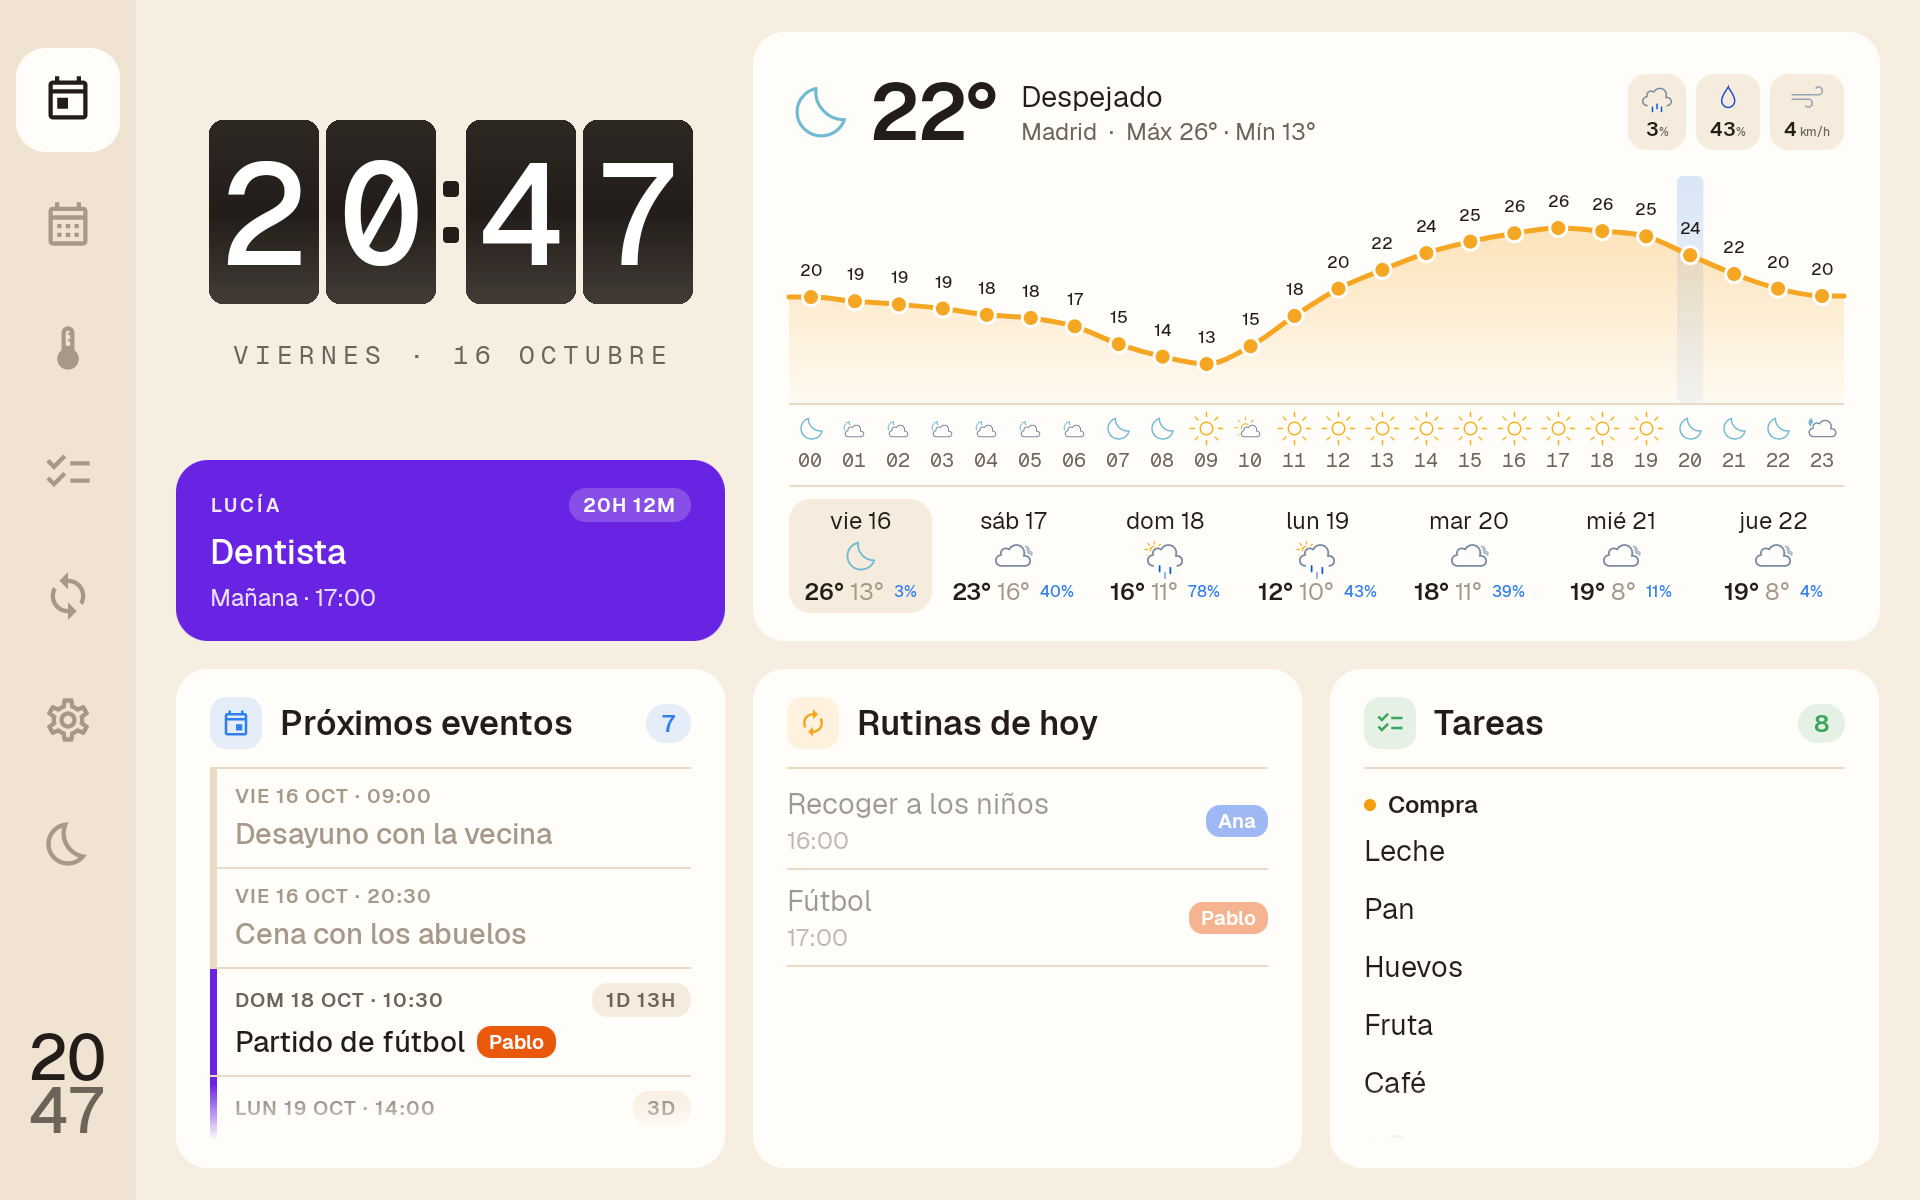
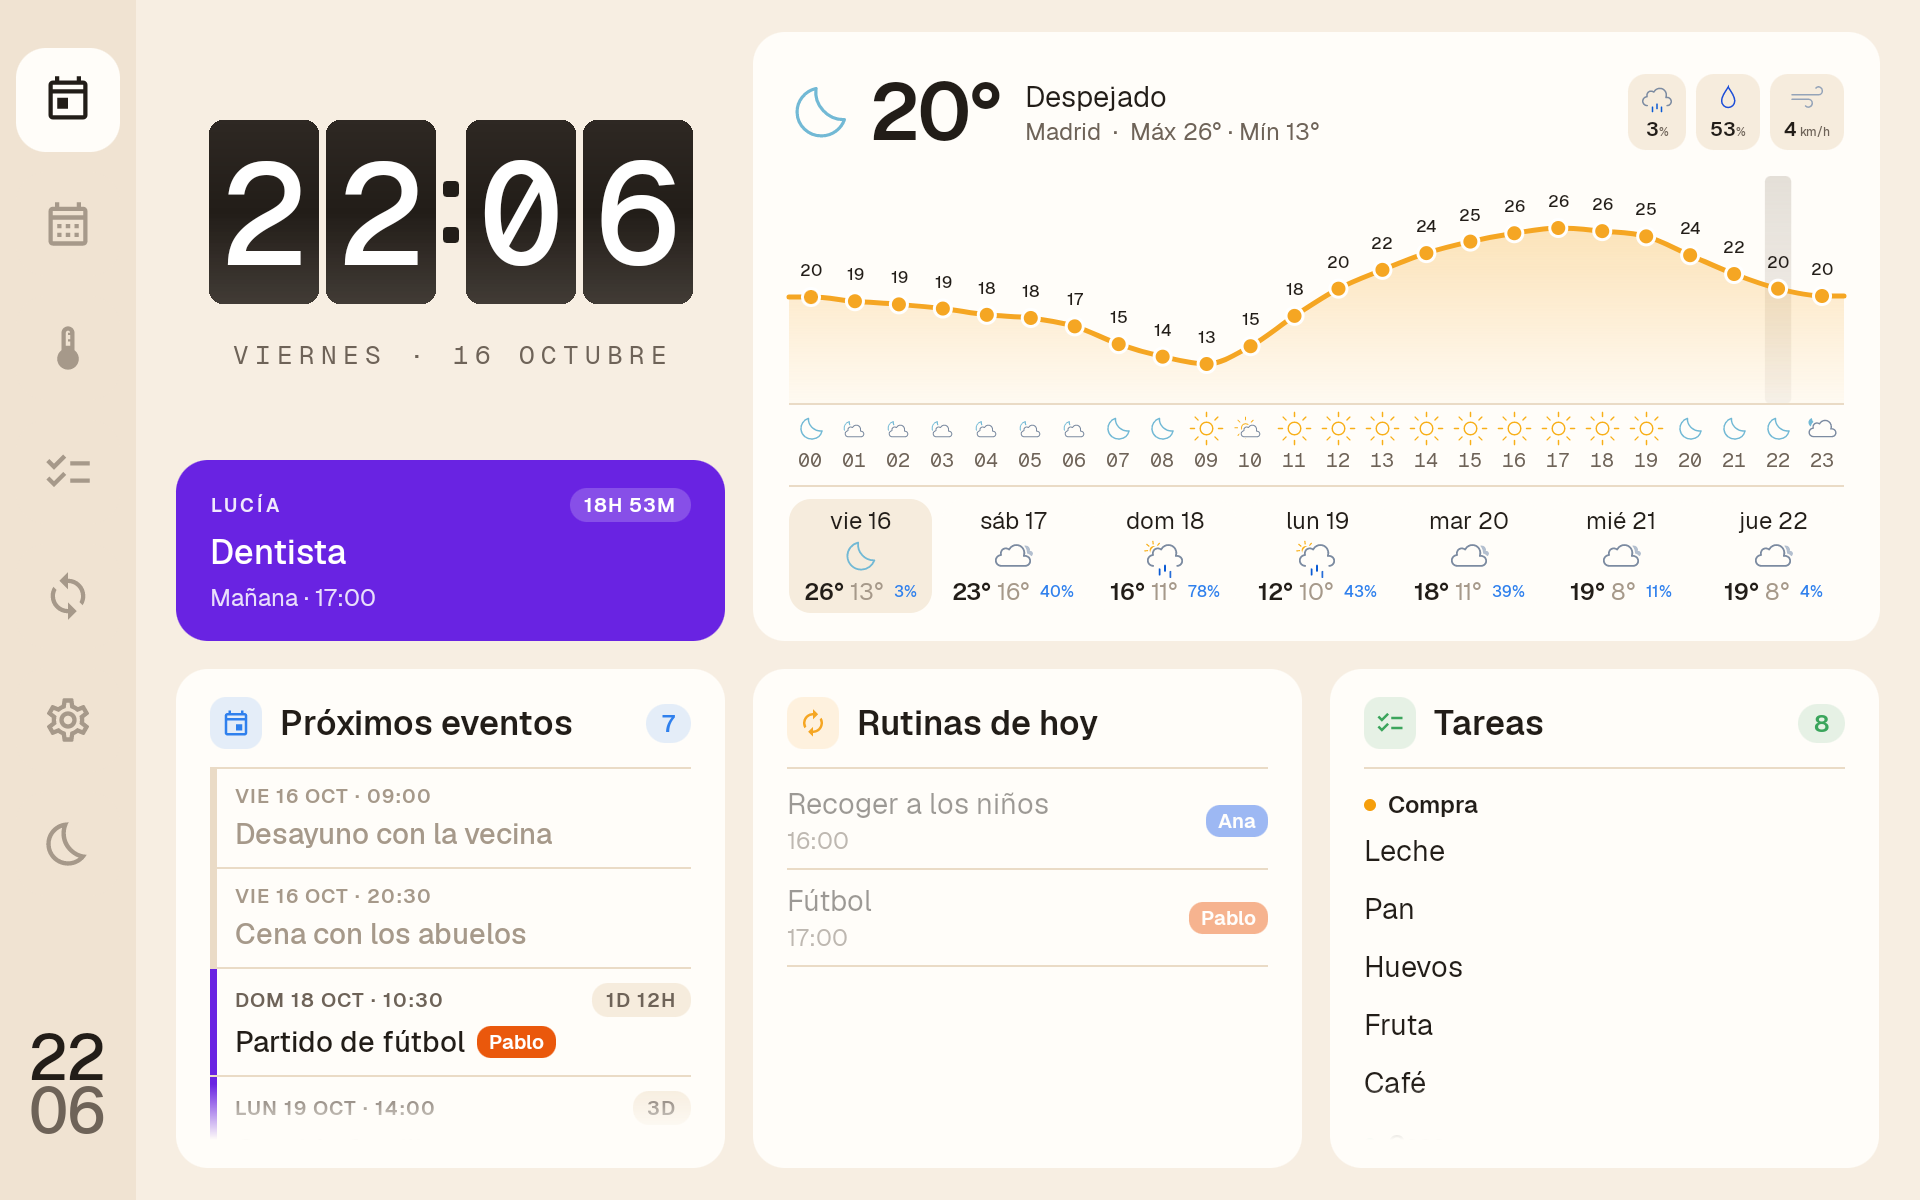
Tiempo: la hora actual se marca en amarillo de día y en gris de noche
La banda de la hora actual en la gráfica deja de ser azul: usa el
amarillo de la curva si esa hora es de día (is_day de Open-Meteo) y
gris si es de noche.

diff --git a/android/app/src/main/java/com/lito/planify/dashboard/ui/WeatherUi.kt b/android/app/src/main/java/com/lito/planify/dashboard/ui/WeatherUi.kt
@@ -251,13 +251,15 @@ fun HourlyForecast(forecast: Forecast, now: LocalDateTime, modifier: Modifier = 
             val maxT = maxOf(temps.max(), minT + 1)
             fun y(t: Double) = curveBottom - (curveBottom - curveTop) * ((t - minT) / (maxT - minT)).toFloat()
 
-            // Hora actual: una banda azul translúcida sobre la columna de la hora en punto (13:40 → las 13), detrás de la curva
+            // Hora actual: una banda translúcida sobre la columna de la hora en punto (13:40 → las 13), detrás de la curva;
+            // amarilla de día y gris de noche (según el is_day de esa hora)
             val current = Math.floorDiv(Duration.between(LocalDateTime.parse(hourly.time[points.first()], IsoMinute), now).toMinutes(), 60L * step).toInt()
             if (current in points.indices) {
                 val nowX = x(current)
                 val band = (column * 0.6f).coerceAtMost(36f)
+                val tint = if (hourly.is_day.getOrNull(points[current]) == 0) Palette.InkMuted else Palette.Warm
                 drawRoundRect(
-                    Brush.verticalGradient(listOf(Palette.Rain.copy(alpha = 0.18f), Palette.Rain.copy(alpha = 0.06f)), startY = 0f, endY = baseline),
+                    Brush.verticalGradient(listOf(tint.copy(alpha = 0.30f), tint.copy(alpha = 0.10f)), startY = 0f, endY = baseline),
                     topLeft = Offset(nowX - band / 2, 0f),
                     size = Size(band, baseline),
                     cornerRadius = CornerRadius(6f)

diff --git a/docs/ARCHITECTURE.md b/docs/ARCHITECTURE.md
@@ -9,7 +9,7 @@ La barra lateral izquierda tiene arriba, solo con iconos, Hoy, Calendario, Tiemp
 Sin sesión iniciada se muestra el login (icono de Planify y formulario, centrados). Si no hay Internet, en su lugar aparece "Esperando conexión a Internet…" con "Ir a Ajustes" (ajustes de Wi-Fi), y el formulario aparece solo cuando llega la red.
 
 - **Hoy:** rejilla de 3 columnas en dos filas (55 % y 45 % del alto).
-  - Arriba, en 1/3, la hora y la fecha centradas y el **siguiente** evento (tarjeta del color de su calendario: sus personas y, a la derecha, lo que falta en una píldora, como en la lista de próximos eventos; debajo, el título y el día y la hora). Ese evento no se repite en la lista de próximos eventos. En 2/3, la **tarjeta del tiempo**: icono, temperatura y estado; lluvia del día, humedad y viento como iconos con su valor (Meteocons estáticos); la curva hora a hora del día de hoy, de 00 a 23 h (la hora actual marcada con una banda azul translúcida; la temperatura de todas las horas, pequeña y sin «°») con barras de lluvia solo donde llueve (el alto es la cantidad y el relleno, la probabilidad; ver más abajo); debajo, el icono del tiempo de cada hora y, abajo del todo, la hora; y, separados por una línea, los días en columnas, que se deslizan para ver la semana siguiente (vuelven a la primera a los 2 minutos). Al tocar un día, la cabecera y la curva pasan a ese día; tocarlo otra vez, o tocar hoy, vuelve a hoy (y vuelve solo a los 2 minutos).
+  - Arriba, en 1/3, la hora y la fecha centradas y el **siguiente** evento (tarjeta del color de su calendario: sus personas y, a la derecha, lo que falta en una píldora, como en la lista de próximos eventos; debajo, el título y el día y la hora). Ese evento no se repite en la lista de próximos eventos. En 2/3, la **tarjeta del tiempo**: icono, temperatura y estado; lluvia del día, humedad y viento como iconos con su valor (Meteocons estáticos); la curva hora a hora del día de hoy, de 00 a 23 h (la hora actual marcada con una banda translúcida, amarilla de día y gris de noche; la temperatura de todas las horas, pequeña y sin «°») con barras de lluvia solo donde llueve (el alto es la cantidad y el relleno, la probabilidad; ver más abajo); debajo, el icono del tiempo de cada hora y, abajo del todo, la hora; y, separados por una línea, los días en columnas, que se deslizan para ver la semana siguiente (vuelven a la primera a los 2 minutos). Al tocar un día, la cabecera y la curva pasan a ese día; tocarlo otra vez, o tocar hoy, vuelve a hoy (y vuelve solo a los 2 minutos).
   - Abajo, **próximos eventos** con el formato del widget de la app (barra de color, "MIÉ 14 OCT · 16:00" con el tiempo que falta en una píldora, título y personas; los pasados en gris), **rutinas de hoy** (la lista, con la siguiente resaltada y las pasadas atenuadas) y **tareas** por lista, sin casillas porque no se pueden marcar.
 - **Calendario:** semanas de lunes a domingo, deslizando a izquierda y derecha (un año hacia cada lado; "Volver a hoy" regresa a la actual). 7 columnas. La cabecera de cada día mide siempre lo mismo: día y número con el icono del tiempo a la derecha, y debajo mín / máx · lluvia (0 % si no llueve). Luego los eventos y, aparte, una banda de rutinas (hora y colores de las personas arriba, nombre debajo); los días pasados, atenuados. Cada semana se descarga al mostrarla, junto con las vecinas. Abajo, la leyenda de personas.
 - **Tiempo:** dos páginas que se deslizan. La primera es la tarjeta del tiempo a pantalla completa: el mismo día de hoy de 00 a 23 h que en Hoy (la temperatura de cada hora, también sin «°»), con el icono de cada hora encima de la hora, y 7 días. La segunda, la **semana siguiente** (días 8 a 14): gráfica de máximas y mínimas, lluvia (% y mm) y viento, y las columnas de cada día. En las dos páginas, tocar un día abre sus 24 horas (en la segunda, en lugar de la gráfica semanal) y tocarlo otra vez lo cierra.
